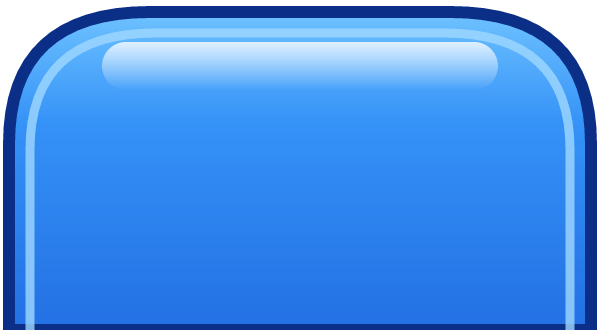
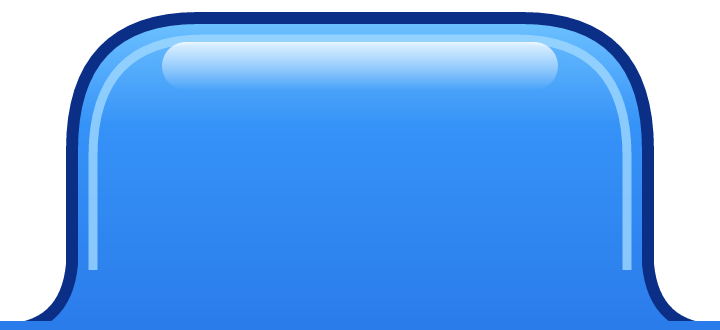
style(ui): 弹窗标题凸台两肩圆弧过渡；设置弹窗收紧；主页入口图标、开始按钮字号加大

Changed region(s): [[0.0, 0.0, 1.0, 1.0]]

diff --git a/client/assets/scripts/pages/home.ts b/client/assets/scripts/pages/home.ts
@@ -68,11 +68,11 @@ export class HomePage extends Page {
     this.entry(root, 'daily', 'icon/entry_daily', Screen.W / 2 - 112, low, () => ui.go('daily'));
     // 关卡号 + 开始
     const btnY = Screen.bottom + TABBAR_H + 150;
-    this.levelPill = slice(root, 'kit/title_plate', 280, 72, 'levelPill');
+    this.levelPill = slice(root, 'kit/title_plate', 250, 66, 'levelPill');
     at(this.levelPill, 0, btnY + 112);
     this.levelLabel = text(this.levelPill, '', 38);
     at(this.levelLabel.node, 0, 4);
-    this.start = button(root, { color: 'green', w: 560, h: 150, label: tr('UI_PLAY'), fontSize: 80, onTap: () => Flow.startLevel(App.save.data.level) });
+    this.start = button(root, { color: 'green', w: 560, h: 164, label: tr('UI_PLAY'), fontSize: 100, onTap: () => Flow.startLevel(App.save.data.level) });
     at(this.start.node, 0, btnY);
     this.tag = slice(this.start.node, 'kit/btn_purple', 120, 56, 'tag');
     at(this.tag, 220, 64);
@@ -81,13 +81,13 @@ export class HomePage extends Page {
   }
 
   private entry(root: Node, feature: string, icon: string, x: number, y: number, open: () => void): void {
-    const n = box(feature, root, 190, 200);
+    const n = box(feature, root, 200, 220);
     at(n, x, y);
-    const ic = img(n, icon, 150, 150, 'icon');
-    at(ic, 0, 30);
-    const pill = slice(n, 'kit/title_page', 170, 64, 'pill');
-    at(pill, 0, -62);
-    const label = text(pill, tr(FEATURE_LABEL[feature]), 32);
+    const ic = img(n, icon, 176, 176, 'icon');
+    at(ic, 0, 34);
+    const pill = slice(n, 'kit/title_page', 184, 70, 'pill');
+    at(pill, 0, -66);
+    const label = text(pill, tr(FEATURE_LABEL[feature]), 36);
     at(label.node, 0, 4);
     const lock = img(n, 'kit/ic_lock', 56, 56, 'lock');
     at(lock, 50, 0);

diff --git a/client/assets/scripts/ui/popups.ts b/client/assets/scripts/ui/popups.ts
@@ -313,18 +313,18 @@ export function livesPopup(onChange?: () => void): void {
 /** 主页打开 = 设置：三个开关 + 语言；局内打开 = 暂停：三个开关 +「回主页」「重试」（docs/09 第 4 节） */
 export function settingsPopup(mode: 'home' | 'pause', o: { onHome?: () => void; onRetry?: () => void; onClose?: () => void } = {}): void {
   const s = App.save.data;
-  const h = mode === 'pause' ? 720 : 680 + (App.platform.hasCapability('ad_test') ? 110 : 0);
+  const h = mode === 'pause' ? 640 : 560 + (App.platform.hasCapability('ad_test') ? 110 : 0);
   const p = openPopup({ w: 620, h, title: tr(mode === 'pause' ? 'PAUSE_TITLE' : 'UI_SETTINGS'), mascot: 'c02', onClose: o.onClose });
   const rows: [string, string, keyof typeof s.settings][] = [
     ['kit/ic_music', 'H_MUSIC', 'music'],
     ['kit/ic_sound', 'H_SOUND', 'sound'],
     ['kit/ic_vibrate', 'H_VIBRATION', 'vibrate'],
   ];
-  let y = h / 2 - 150;
+  let y = h / 2 - 100;
   for (const [icon, key, field] of rows) {
     const row = slice(p.body, 'kit/row', 540, 100, 'row');
     at(row, 0, y);
-    const ic = img(row, icon, 56, 56, 'icon');
+    const ic = img(row, icon, 64, 64, 'icon');
     at(ic, -220, 0);
     const l = text(row, tr(key), 38, { align: 'left' });
     at(l.node, -170, 0);
@@ -341,7 +341,7 @@ export function settingsPopup(mode: 'home' | 'pause', o: { onHome?: () => void; 
   if (mode === 'home') {
     const row = slice(p.body, 'kit/row', 540, 100, 'lang');
     at(row, 0, y);
-    const ic = img(row, 'kit/ic_globe', 56, 56, 'icon');
+    const ic = img(row, 'kit/ic_globe', 64, 64, 'icon');
     at(ic, -220, 0);
     const l = text(row, tr('H_LANGUAGE'), 38, { align: 'left' });
     at(l.node, -170, 0);

diff --git a/client/assets/scripts/ui/popup.ts b/client/assets/scripts/ui/popup.ts
@@ -79,7 +79,7 @@ export function openPopup(o: PopupOpts): Popup {
   }
   if (o.title !== undefined) {
     // 标题凸台压在框上沿正中，大白字
-    const head = slice(body, 'kit/popup_head', Math.max(300, o.title.length * 66 + 120), 110, 'title');
+    const head = slice(body, 'kit/popup_head', Math.max(340, o.title.length * 66 + 170), 110, 'title');
     head.setPosition(0, o.h / 2 + 33, 0);
     text(head, o.title, 62).node.setPosition(0, 2, 0);
   }
